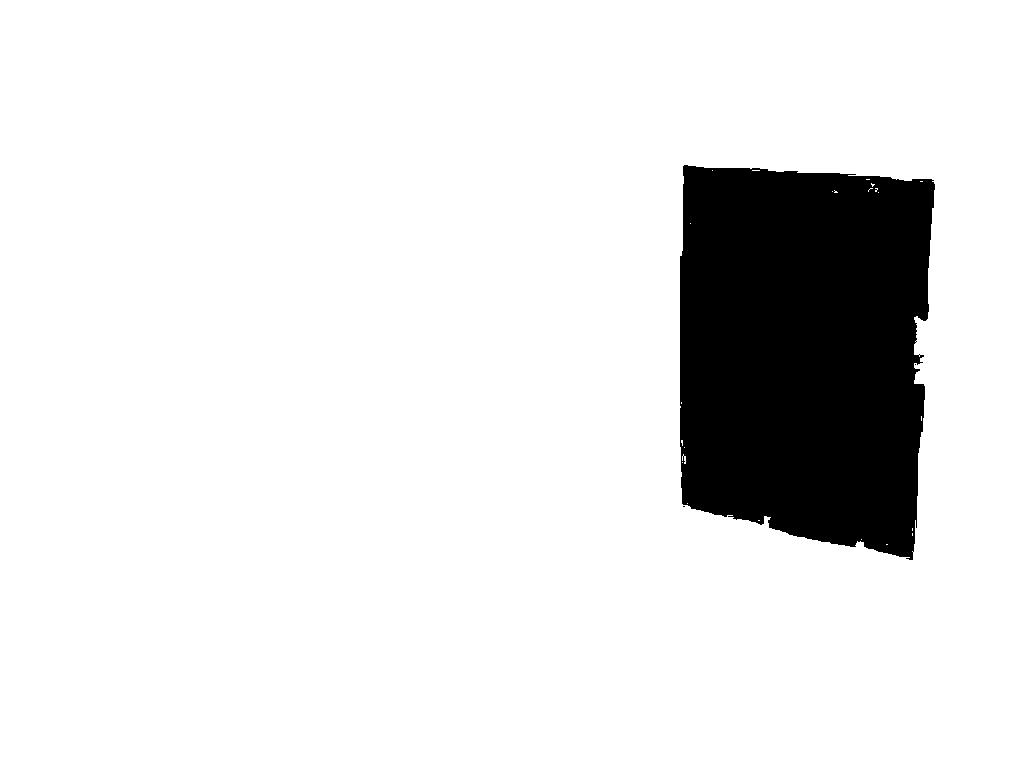
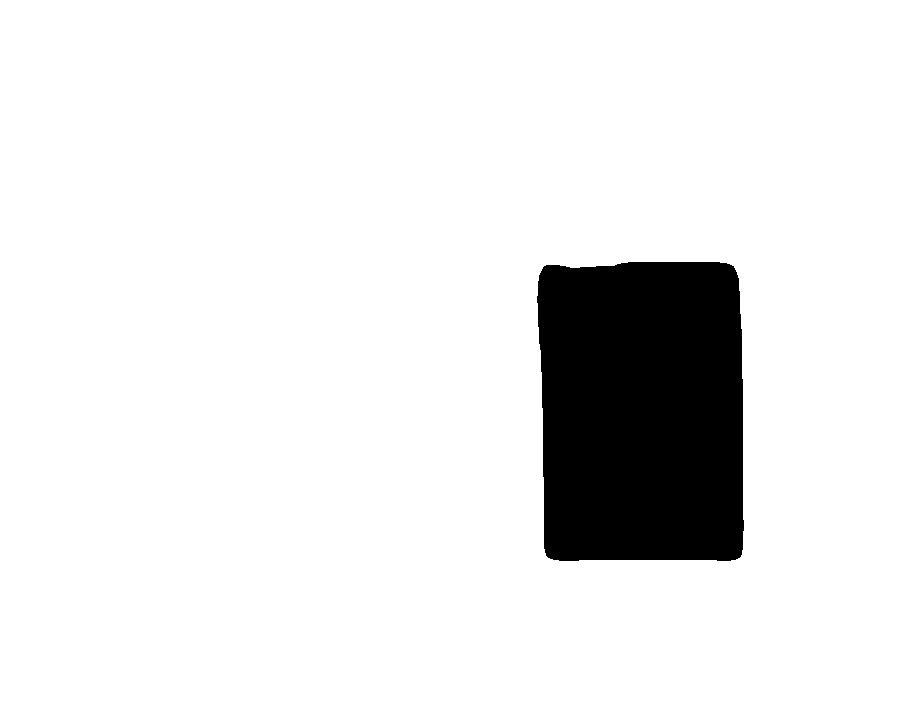
upadte edge detector

Changed region(s): [[0.5911, 0.2139, 0.9333, 0.7944]]

diff --git a/contour/edge_detector.py b/contour/edge_detector.py
@@ -5,9 +5,14 @@ import numpy as np
 from PIL import Image
 from matplotlib import pyplot as plt
 
-filename = '275'
+from contour.utils import to_rgb, find_max_contour
+
+filename = '247'
 
 img = cv2.imread('source/%s.jpg' % filename, 0)
+kernel = np.ones((5,5),np.uint8)
+img = cv2.morphologyEx(img, cv2.MORPH_OPEN, kernel)
+img = cv2.morphologyEx(img, cv2.MORPH_CLOSE, kernel)
 edges = cv2.Canny(img, 0, 100)
 
 # print(edges)
@@ -19,61 +24,24 @@ contours, _ = cv2.findContours(edges, cv2.RETR_TREE, cv2.CHAIN_APPROX_NONE)
 
 # запомимаем четрехугольные контуры
 quadrilateral_contours = []
-contours_score = []
+
 for c in contours:
     peri = cv2.arcLength(c, True)
     approx = cv2.approxPolyDP(c, 0.02 * peri, True)
-    if len(approx) == 4 and cv2.contourArea(approx) > 100.0:
+    if len(approx) == 4:
         quadrilateral_contours.append(approx)
-        contours_score.append(0)
 
 print("quadrilateral_contours: %s" % len(quadrilateral_contours))
 
 path = "/home/fedleonid/Study/diploma/detectron_test_data/input/%s.jpg" % filename
-masks = np.load('examples/%s.npy' % filename)
-scores = np.load('examples/scores_%s.npy' % filename)
+masks = np.load('masks/%s.npy' % filename)
+scores = np.load('masks/scores_%s.npy' % filename)
 
 original_image = cv2.imread(path)
 
 if len(masks) < 1:
     print("Empty masks")
     exit()
-
-# убрать накладывающиеся
-new_masks = [masks[0]]
-new_scores = [scores[0]]
-
-
-def is_intersection(mask1, mask2):
-    count = 0
-    all_count = 0
-    for i in range(len(mask1)):
-        for j in range(len(mask1[0])):
-            if mask1[i][j]:
-                all_count += 1
-            if mask2[i][j]:
-                all_count += 1
-            if mask1[i][j] and mask2[i][j]:
-                count += 1
-    return count > all_count / 10
-
-
-for i in range(len(masks)):
-    is_added = False
-    for j in range(len(new_masks)):
-        if is_intersection(masks[i], new_masks[j]):
-            is_added = True
-            for x in range(len(new_masks[j])):
-                for y in range(len(new_masks[j][0])):
-                    if masks[i][x][y]:
-                        new_masks[j][x][y] = True
-            new_scores[j] = (new_scores[j] + scores[i]) / 2
-    if not is_added:
-        new_masks.append(masks[i])
-        new_scores.append(scores[i])
-
-masks = new_masks
-scores = new_scores
 
 # Перебираем маски
 print("Masks: %s" % str(len(masks)))
@@ -83,30 +51,58 @@ for t in range(len(masks)):
         continue
     matrix = masks[t]
 
+    # вычисляем площадь маски
+    black_white_image = np.array([[to_rgb(c) for c in r] for r in matrix])
+    im = Image.fromarray(np.uint8(black_white_image))
+    im.save('tmp.jpg')
+    tmp_image = cv2.imread('tmp.jpg')
+    im_bw = cv2.cvtColor(tmp_image, cv2.COLOR_RGB2GRAY)
+    blur = cv2.GaussianBlur(im_bw, (5, 5), 0)
+    im_bw = cv2.Canny(blur, 10, 90)
+    matrix_contours, _ = cv2.findContours(im_bw, cv2.RETR_EXTERNAL, cv2.CHAIN_APPROX_NONE)
+    max_contour = find_max_contour(matrix_contours)
+    mask_area = cv2.contourArea(max_contour)
+
+    current_contours = []
+    contours_score = []
+
+    for c in quadrilateral_contours:
+        area = cv2.contourArea(c)
+        scale = area / mask_area
+        if 0.8 < scale < 1.2:
+            current_contours.append(c)
+            contours_score.append(0)
+
+    print("current_contours: %s" % len(current_contours))
+
+    if len(current_contours) == 0:
+        continue
+
     print("Matrix: %s" % str(len(matrix)))
     for i in range(len(matrix)):
         print("Matrix index: %s" % str(i))
         for j in range(len(matrix[0])):
-            for c in range(len(quadrilateral_contours)):
-                contour = quadrilateral_contours[c]
+            for c in range(len(current_contours)):
+                contour = current_contours[c]
                 dist = cv2.pointPolygonTest(contour, (j, i), True)
                 if matrix[i][j] and dist >= 0.0:
                     contours_score[c] += 1
                 if not matrix[i][j] and dist >= 0.0:
                     contours_score[c] -= 1
 
-print(contours_score)
+    print(contours_score)
 
-max_index = 0
-max_score = contours_score[0]
+    max_index = 0
+    max_score = contours_score[0]
 
-for c in range(len(quadrilateral_contours)):
-    if contours_score[c] > max_score:
-        max_score = contours_score[c]
-        max_index = c
+    for c in range(len(current_contours)):
+        if contours_score[c] > max_score:
+            max_score = contours_score[c]
+            max_index = c
 
-print(max_index)
-print(max_score)
+    print(max_index)
+    print(max_score)
 
-cv2.drawContours(original_image, [quadrilateral_contours[max_index]], -1, (0, 255, 0), 3)
+    cv2.drawContours(original_image, [current_contours[max_index]], -1, (0, 255, 0), 3)
+
 cv2.imwrite('contours.jpg', original_image)

diff --git a/contour/contour_by_color.py b/contour/contour_by_color.py
@@ -5,27 +5,11 @@ import os
 from collections import deque
 
 from contour.color_difference import is_similar_color
-
-
-def to_rgb(mask_value):
-    return (0., 0., 0.) if mask_value else (255., 255., 255.)
-
-
-# находим контур с максимальной площадью
-def find_max_contour(contours):
-    max_index = 0
-    max_area = cv2.contourArea(contours[0])
-    for i in range(2, len(contours)):
-        area = cv2.contourArea(contours[i])
-        if area > max_area:
-            max_area = area
-            max_index = i
-
-    return contours[max_index]
+from contour.utils import to_rgb, find_max_contour
 
 
 def scale_contour(contour):
-    scale_coefficient = 0.9
+    scale_coefficient = 0.90
     M = cv2.moments(contour)
     cx = int(M['m10'] / M['m00'])
     cy = int(M['m01'] / M['m00'])
@@ -60,12 +44,23 @@ filtered = filter(lambda x: x.endswith('npy') and not x.startswith('scores'), al
 masks_files = list(map(lambda x: x.split('.')[0], filtered))
 print(masks_files)
 
-masks_files = [masks_files[0]]
+# masks_files = masks_files[0:10]
+# masks_files = [masks_files[10]]
+# masks_files = [masks_files[40]]
+masks_files = ['295']
 
 for filename in masks_files:
     print(filename)
     masks = np.load('masks/%s.npy' % filename)
     scores = np.load('masks/scores_%s.npy' % filename)
+
+    # читаем оригинальное изображение
+    path = "/home/fedleonid/Study/diploma/detectron_test_data/input/%s.jpg" % filename
+    image = Image.open(path)
+    image_width = image.size[0]
+    image_height = image.size[1]
+    image_pix = image.load()
+    original_image = cv2.imread(path)
 
     # выделить контуры
     for k in range(len(masks)):
@@ -90,15 +85,6 @@ for filename in masks_files:
         scaled_contour = scale_contour(max_contour)
         cv2.drawContours(tmp_image, [scaled_contour], -1, (0, 0, 255), 3)
 
-        # читаем оригинальное изображение
-        path = "/home/fedleonid/Study/diploma/detectron_test_data/input/%s.jpg" % filename
-        image = Image.open(path)
-        image_width = image.size[0]
-        image_height = image.size[1]
-        image_pix = image.load()
-
-        original_image = cv2.imread(path)
-
         # массив пикселей, которые отнесены к баннеру
         selected_pixels = np.zeros((image_height, image_width), dtype=bool)
 
@@ -116,8 +102,8 @@ for filename in masks_files:
         # определяем финальный контур
         black_white_image = np.array([[to_rgb(c) for c in r] for r in selected_pixels])
         im = Image.fromarray(np.uint8(black_white_image))
-        im.save('tmp.jpg')
-        tmp_image = cv2.imread('tmp.jpg')
+        im.save('tmp2_%s.jpg' % k)
+        tmp_image = cv2.imread('tmp2_%s.jpg' % k)
         im_bw = cv2.cvtColor(tmp_image, cv2.COLOR_RGB2GRAY)
         blur = cv2.GaussianBlur(im_bw, (5, 5), 0)
         im_bw = cv2.Canny(blur, 10, 90)
@@ -126,4 +112,5 @@ for filename in masks_files:
         peri = cv2.arcLength(max_contour, True)
         approx = cv2.approxPolyDP(max_contour, 0.02 * peri, True)
         cv2.drawContours(original_image, [approx], -1, (0, 255, 0), 3)
-        cv2.imwrite('by_color_results/%s.jpg' % filename, original_image)
+
+    cv2.imwrite('by_color_results/%s.jpg' % filename, original_image)

diff --git a/contour/edge_detector_2.py b/contour/edge_detector_2.py
@@ -1,0 +1,62 @@
+from random import randint
+
+import cv2
+import numpy as np
+from PIL import Image
+from matplotlib import pyplot as plt
+
+from contour.utils import find_max_contour, to_rgb
+
+filename = '275'
+print(filename)
+
+img = cv2.imread('source/%s.jpg' % filename, 0)
+# преобразование для сглаживания
+# kernel = np.ones((9,9),np.uint8)
+# img = cv2.dilate(img, kernel)
+# img = cv2.morphologyEx(img, cv2.MORPH_OPEN, kernel)
+# img = cv2.morphologyEx(img, cv2.MORPH_CLOSE, kernel)
+edges = cv2.Canny(img, 0, 100)
+
+plt.imshow(edges, cmap='gray')
+plt.savefig('tmp3.jpg')
+
+path = "/home/fedleonid/Study/diploma/detectron_test_data/input/%s.jpg" % filename
+original_image = cv2.imread(path)
+
+masks = np.load('masks/%s.npy' % filename)
+scores = np.load('masks/scores_%s.npy' % filename)
+
+# ищем контуры
+contours, _ = cv2.findContours(edges, cv2.RETR_TREE, cv2.CHAIN_APPROX_NONE)
+
+# перебираем маски
+for k in range(len(masks)):
+    # убираем то, в чем плохо уверены
+    if scores[k] < 0.9:
+        continue
+
+    matrix = masks[k]
+    black_white_image = np.array([[to_rgb(c) for c in r] for r in matrix])
+    im = Image.fromarray(np.uint8(black_white_image))
+    im.save('tmp.jpg')
+
+    tmp_image = cv2.imread('tmp.jpg')
+
+    im_bw = cv2.cvtColor(tmp_image, cv2.COLOR_RGB2GRAY)
+    blur = cv2.GaussianBlur(im_bw, (5, 5), 0)
+    im_bw = cv2.Canny(blur, 10, 90)
+    matrix_contours, _ = cv2.findContours(im_bw, cv2.RETR_EXTERNAL, cv2.CHAIN_APPROX_NONE)
+
+    # вычисляем площадь маски
+    max_contour = find_max_contour(matrix_contours)
+    mask_area = cv2.contourArea(max_contour)
+
+    for c in contours:
+        area = cv2.contourArea(c)
+        scale = area / mask_area
+        if 0.9 < scale < 1.1:
+            cv2.drawContours(original_image, [c], -1, (randint(0, 255), randint(0, 255), randint(0, 255)), 3)
+
+    cv2.imwrite('contours.jpg', original_image)
+    exit()

diff --git a/contour/color_difference.py b/contour/color_difference.py
@@ -2,9 +2,28 @@ import colormath
 import math
 
 
-def is_similar_color(rgb1, rgb2):
+def euclid(rgb1, rgb2):
     (r1, g1, b1) = rgb1
     (r2, g2, b2) = rgb2
     distance = math.sqrt((r2 - r1) ** 2 + (b2 - b1) ** 2 + (b2 - b1) ** 2)
     # print(str(rgb1) + " ~ " + str(rgb2) + " = " + str(distance))
-    return distance < 3.0
+    return distance < 7.5
+
+
+# see https://stackoverflow.com/questions/8863810/python-find-similar-colors-best-way
+def stackoverflow_distance(rgb1, rgb2):
+    (r1, g1, b1) = rgb1
+    (r2, g2, b2) = rgb2
+    rmean = (r1 + r2) / 2.0
+    rd = r1 - r2
+    gd = g1 - g2
+    bd = b1 - b2
+    sqr_distance = (512.0 + rmean) * rd * rd / 256.0 + 4.0 * gd * gd + (767.0 - rmean) * bd * bd / 256.0
+    distance = math.sqrt(sqr_distance)
+    # print(str(rgb1) + " ~ " + str(rgb2) + " = " + str(distance))
+    return distance < 11.0
+
+
+def is_similar_color(rgb1, rgb2):
+    return euclid(rgb1, rgb2)
+    # return stackoverflow_distance(rgb1, rgb2)

diff --git a/contour/utils.py b/contour/utils.py
@@ -1,0 +1,22 @@
+import cv2
+import numpy as np
+from PIL import Image
+import os
+from collections import deque
+
+
+def to_rgb(mask_value):
+    return (0., 0., 0.) if mask_value else (255., 255., 255.)
+
+
+# находим контур с максимальной площадью
+def find_max_contour(contours):
+    max_index = 0
+    max_area = cv2.contourArea(contours[0])
+    for i in range(2, len(contours)):
+        area = cv2.contourArea(contours[i])
+        if area > max_area:
+            max_area = area
+            max_index = i
+
+    return contours[max_index]

diff --git a/sample.py b/sample.py
@@ -1,3 +1,5 @@
 import numpy as np
 
-print("12.jpg".split('.')[0])
+a = [1, 2, 3]
+b = [4, 5]
+print(a + b)
